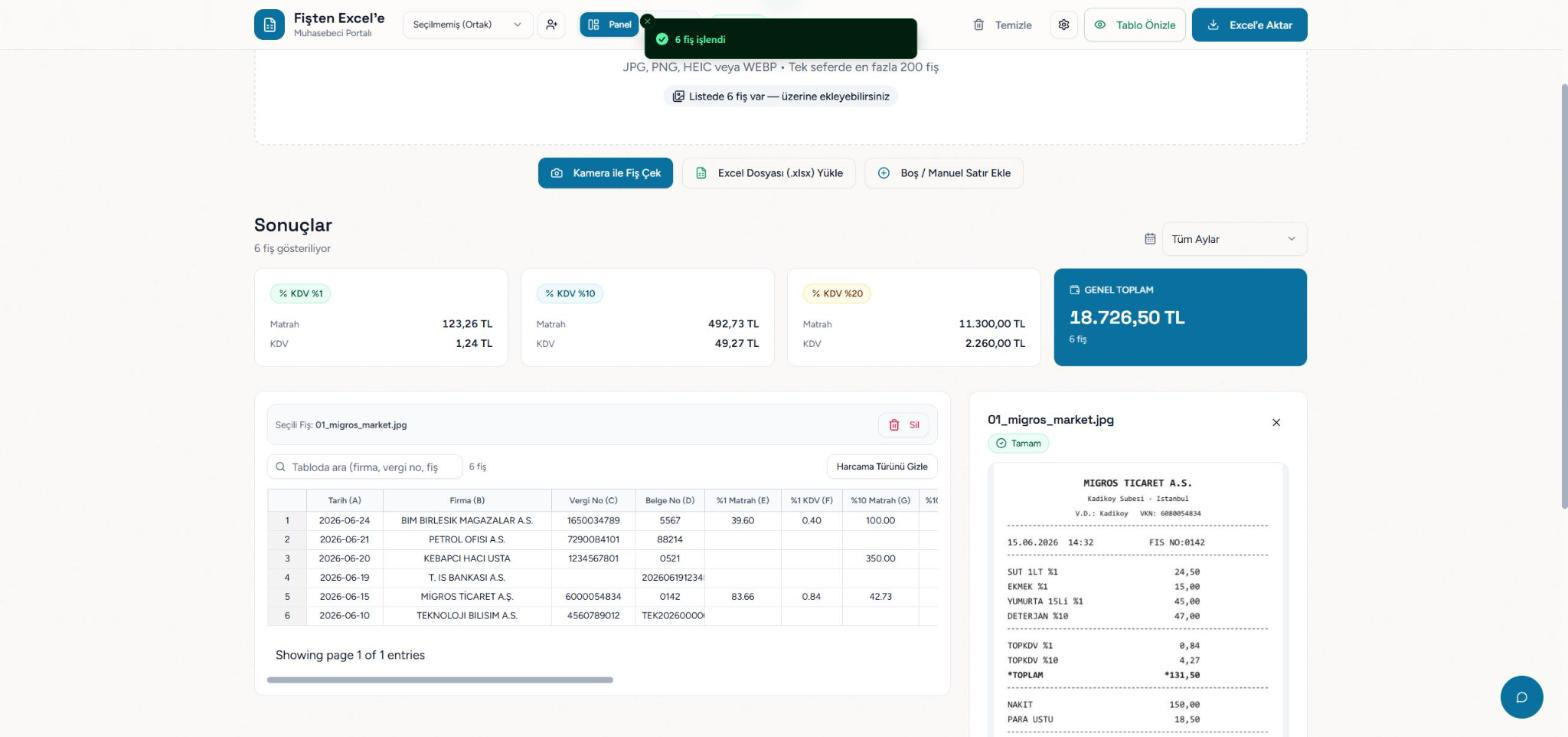
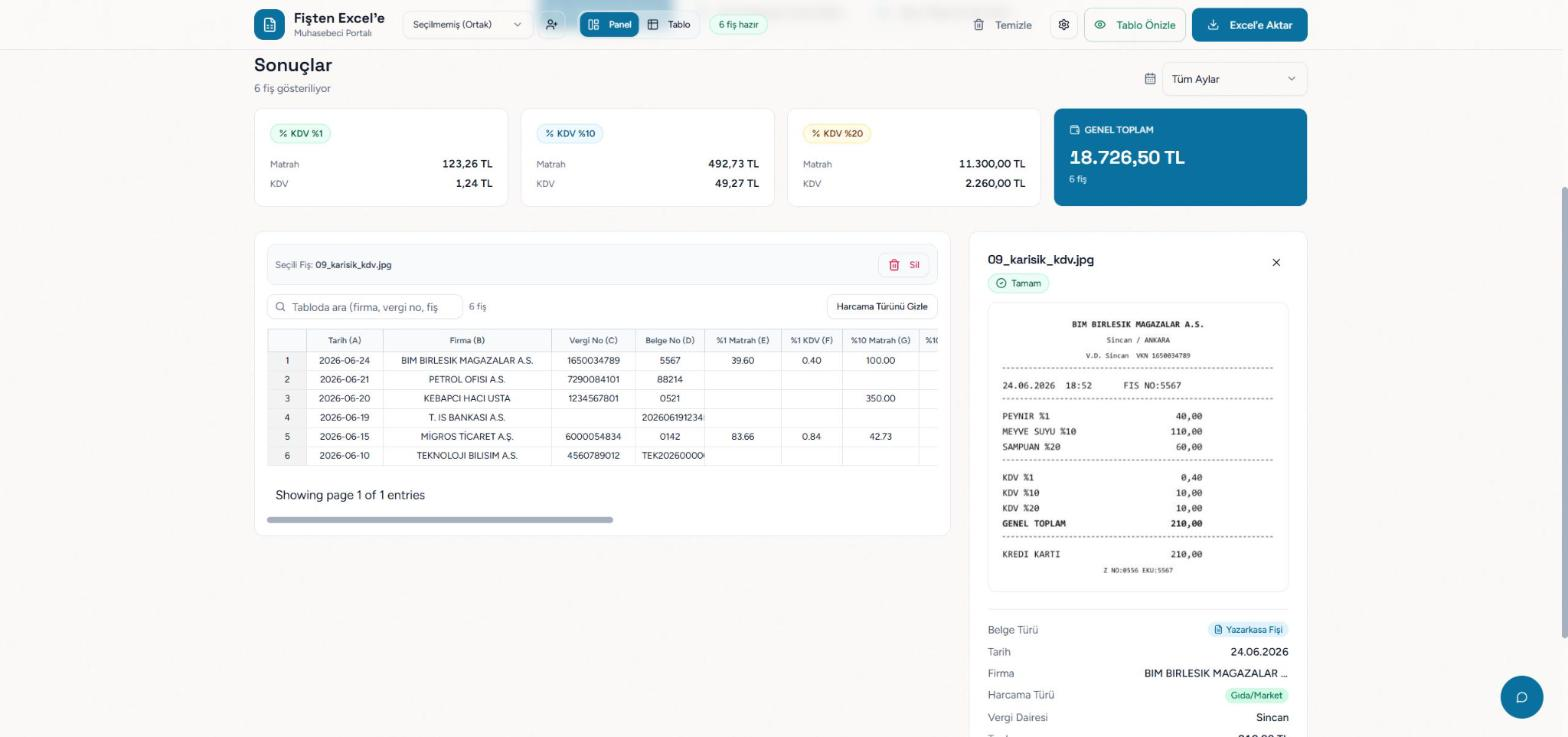
Ekran goruntusu: tam ekran tablo gorunumu (guven skoru, durum, harcama turu sutunlari dahil)

diff --git a/README.md b/README.md
@@ -39,7 +39,7 @@ Muhasebeciler her ay yüzlerce fişi tek tek Excel'e giriyor: firma, tarih, KDV 
 
 ## Ekran görüntüleri
 
-**Fişler okunduktan sonra:** KDV oranlarına göre otomatik kırılım, genel toplam ve düzenlenebilir tablo.
+**Tablo görünümü:** her fiş için KDV kırılımı (%1 / %10 / %20), toplam, ödeme türü, **güven skoru**, durum ve harcama türü — hepsi düzenlenebilir tek bir Excel benzeri tabloda.
 
 ![Sonuç tablosu ve KDV özeti](docs/ekran-1-tablo.jpg)
 
